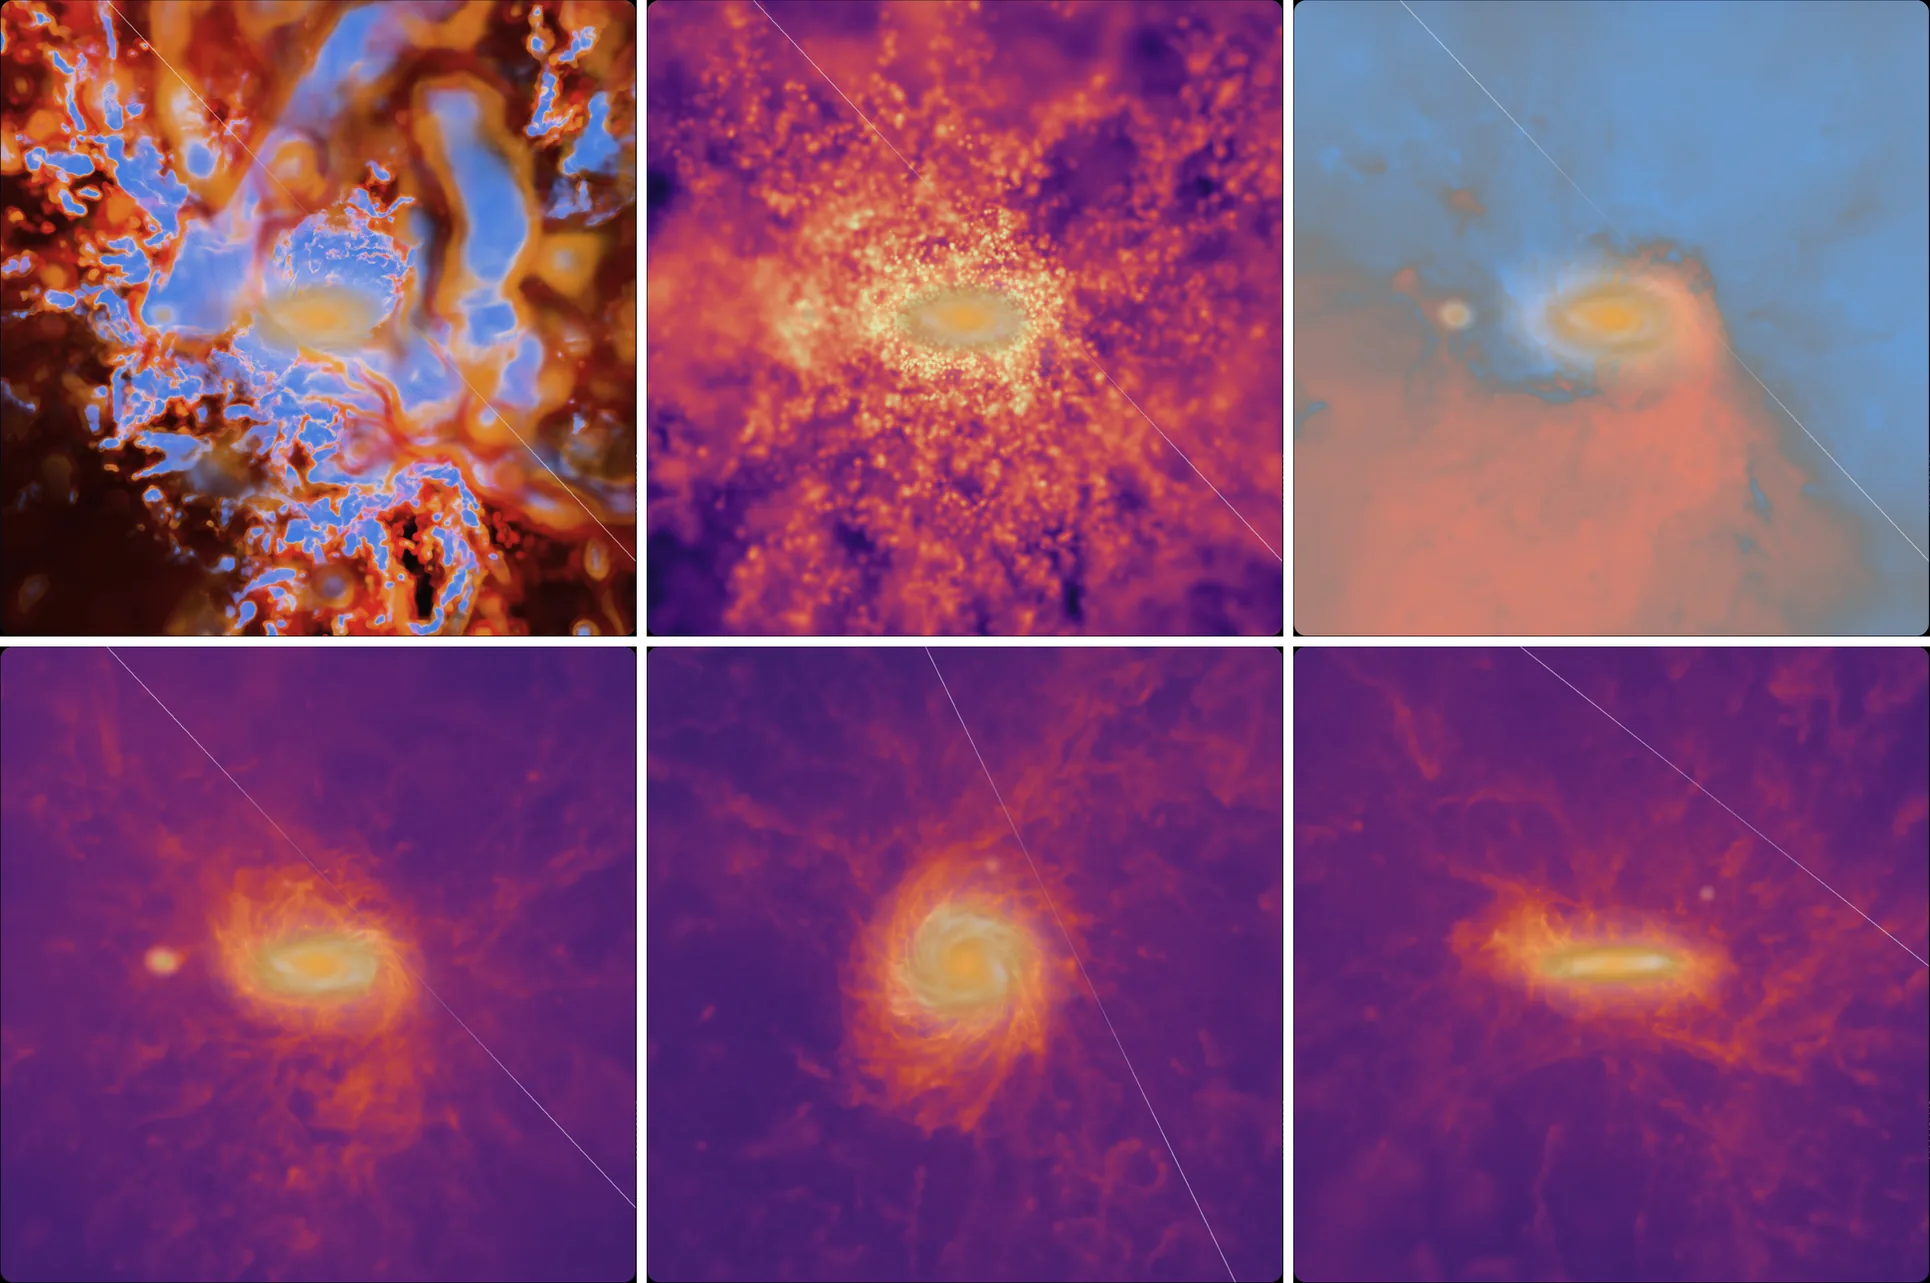
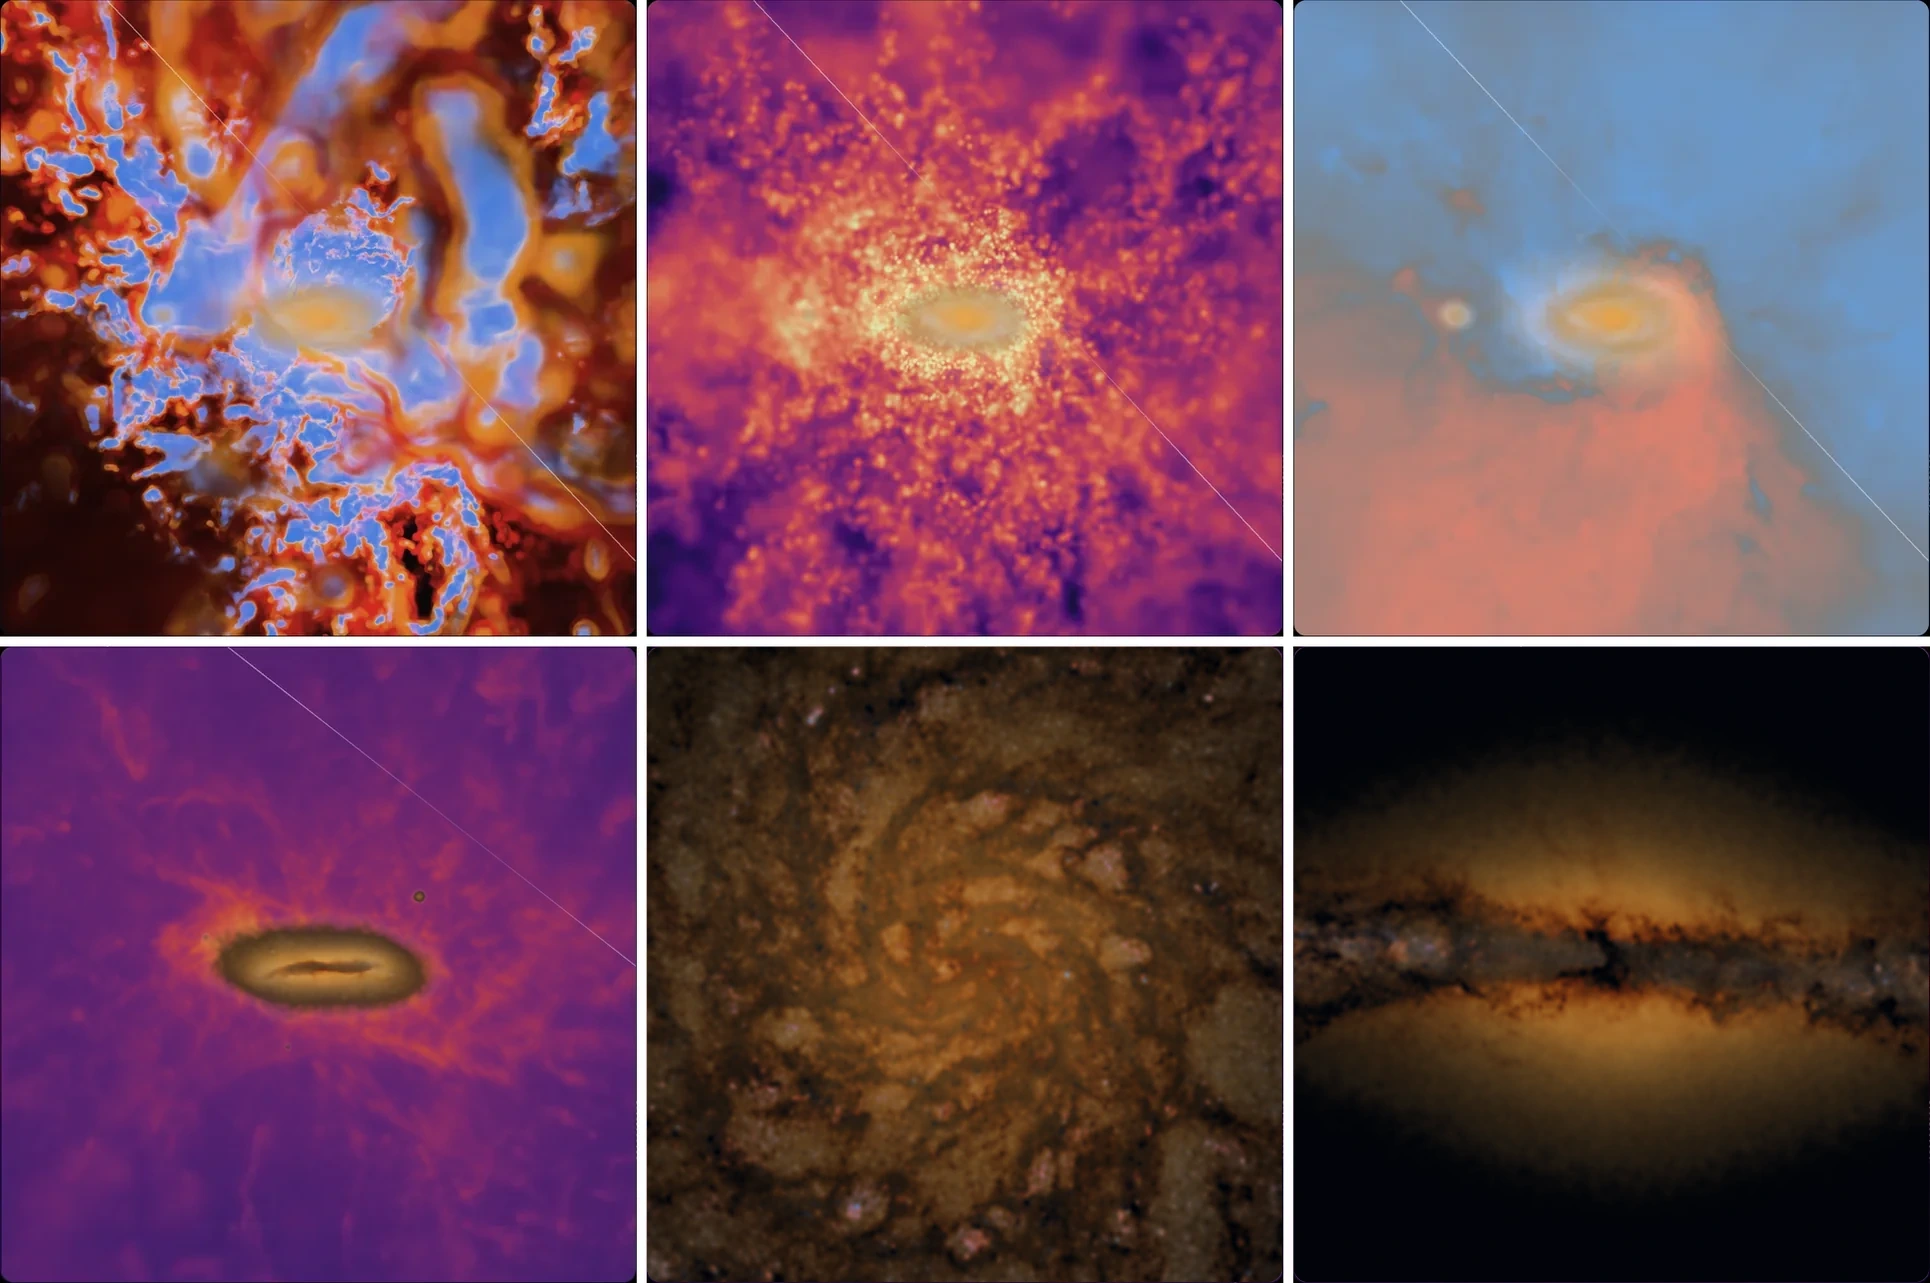
feat(site,explorer): update README 'Fly through the gas' 6-panel 3D showcase and tighten 1240-1399px top-bar breakpoint
- Update docs/readme/gas-3d.webp and README.md 'Fly through the gas' section to showcase 6 diverse 3D renderings across TNG50 and FIRE-2: THOR multi-phase volume transfer function, O VI column density, v_los gas kinematics, edge-on CGM gas around a dust-laned stellar disk, and close-up face-on & edge-on 5-level (S0..S4 + q_dust) stellar + 3D dust renders
- Close the 1241-1399 px responsive media-query gap in docs/tng50/css/page.css so #geo-open, #pill, #find-toggle, and #req-link collapse cleanly to icons on 1280/1366 px laptop screens without squeezing #grp-sight

diff --git a/docs/tng50/css/page.css b/docs/tng50/css/page.css
@@ -584,8 +584,8 @@ html[data-tier=low] *,html[data-tier=low] *::before,html[data-tier=low] *::after
    dot only and Find and New ray as icons (their tips still name them) */
 @media (min-width:1400px) and (max-width:1900px){
   #pill{font-size:0;gap:0}
-  #find-toggle .lbl{display:none}
-  #geo-open{font-size:0;gap:0;width:32px;padding:0;justify-content:center}
+  :is(#find-toggle,#req-link) .lbl{display:none}
+  #geo-open{font-size:0;gap:0;width:28px;padding:0;justify-content:center}
   #geo-open svg{width:14px;height:14px}
   #title{font-size:12px}
 }
@@ -662,15 +662,15 @@ html[data-tier=low] *,html[data-tier=low] *::before,html[data-tier=low] *::after
    sightline label shrinks (ellipsis); text labels collapse to icons step by step as the bar narrows ---- */
 #top>*{flex-shrink:0}
 #top .grp{min-width:auto}
-#top #grp-sight{min-width:0;flex-shrink:1}
+#top #grp-sight{min-width:0;flex-shrink:1;overflow:hidden}
 #top #gal-open{min-width:48px;flex-shrink:1;overflow:hidden}
 #top #gal-open .slab{min-width:0;overflow:hidden;text-overflow:ellipsis}
 #top .sp{min-width:4px;flex:1 1 4px}
 #top .pbtn{text-decoration:none}
 #mobslot .pbtn{text-decoration:none}
 #top .gl{display:none}
-@media (max-width:1240px){#top #geo-open{font-size:0;gap:0;width:32px;padding:0;justify-content:center}#top #pill{font-size:0;gap:0}:is(#find-toggle,#req-link) .lbl{display:none}}
-@media (max-width:1100px){#top #gal-open .pv,#top #gal-open .chev{display:none}#top .sep{display:none}}
+@media (max-width:1399px){#top #geo-open{font-size:0;gap:0;width:28px;padding:0;justify-content:center}#top #pill{font-size:0;gap:0}:is(#find-toggle,#req-link) .lbl{display:none}}
+@media (max-width:1180px){#top #gal-open .pv,#top #gal-open .chev{display:none}#top .sep{display:none}}
 @media (max-width:980px){#top #title{display:none}#top #chat-open .lbl{display:none}}
 
 /* ---- Data and credits (2026-11): the #pop-licence dialog (Simulation, Spectra, Code and data) at a readable size, and its

diff --git a/README.md b/README.md
@@ -36,8 +36,8 @@ how hot it is and how it moves. This site lets you do that across **221 simulate
 
 ### Fly through the gas
 
-<p align="center"><img src="docs/readme/gas-3d.webp" width="100%" alt="Six 3D views of the same galaxy: THOR gas phases, O VI column, line-of-sight velocity, gas density, face-on and edge-on"></p>
-<p align="center"><sub>Colour the halo by temperature, any ion, velocity or density, and turn it any way you like.</sub></p>
+<p align="center"><img src="docs/readme/gas-3d.webp" width="100%" alt="Six 3D renderings across TNG50 and FIRE-2 galaxies: THOR multi-phase volume transfer function, O VI column density, line-of-sight gas velocity, edge-on halo gas around a dust-laned stellar disk, and close-up face-on and edge-on 5-level stellar disks with 3D dust lanes"></p>
+<p align="center"><sub>Six ways to see the 3D volume across TNG50 and FIRE-2: multi-phase volume transfer functions (THOR gas phases, top left), any of twelve ions in column density (O VI, top middle), 3D gas kinematics (line-of-sight velocity v<sub>los</sub>, top right), edge-on circumgalactic gas wrapping a starlit disk (bottom left), and 5-level nested stellar + 3D dust cubes down to 12 pc voxels seen face-on and edge-on (bottom middle and right).</sub></p>
 
 ### Watch a spectrum form
 
